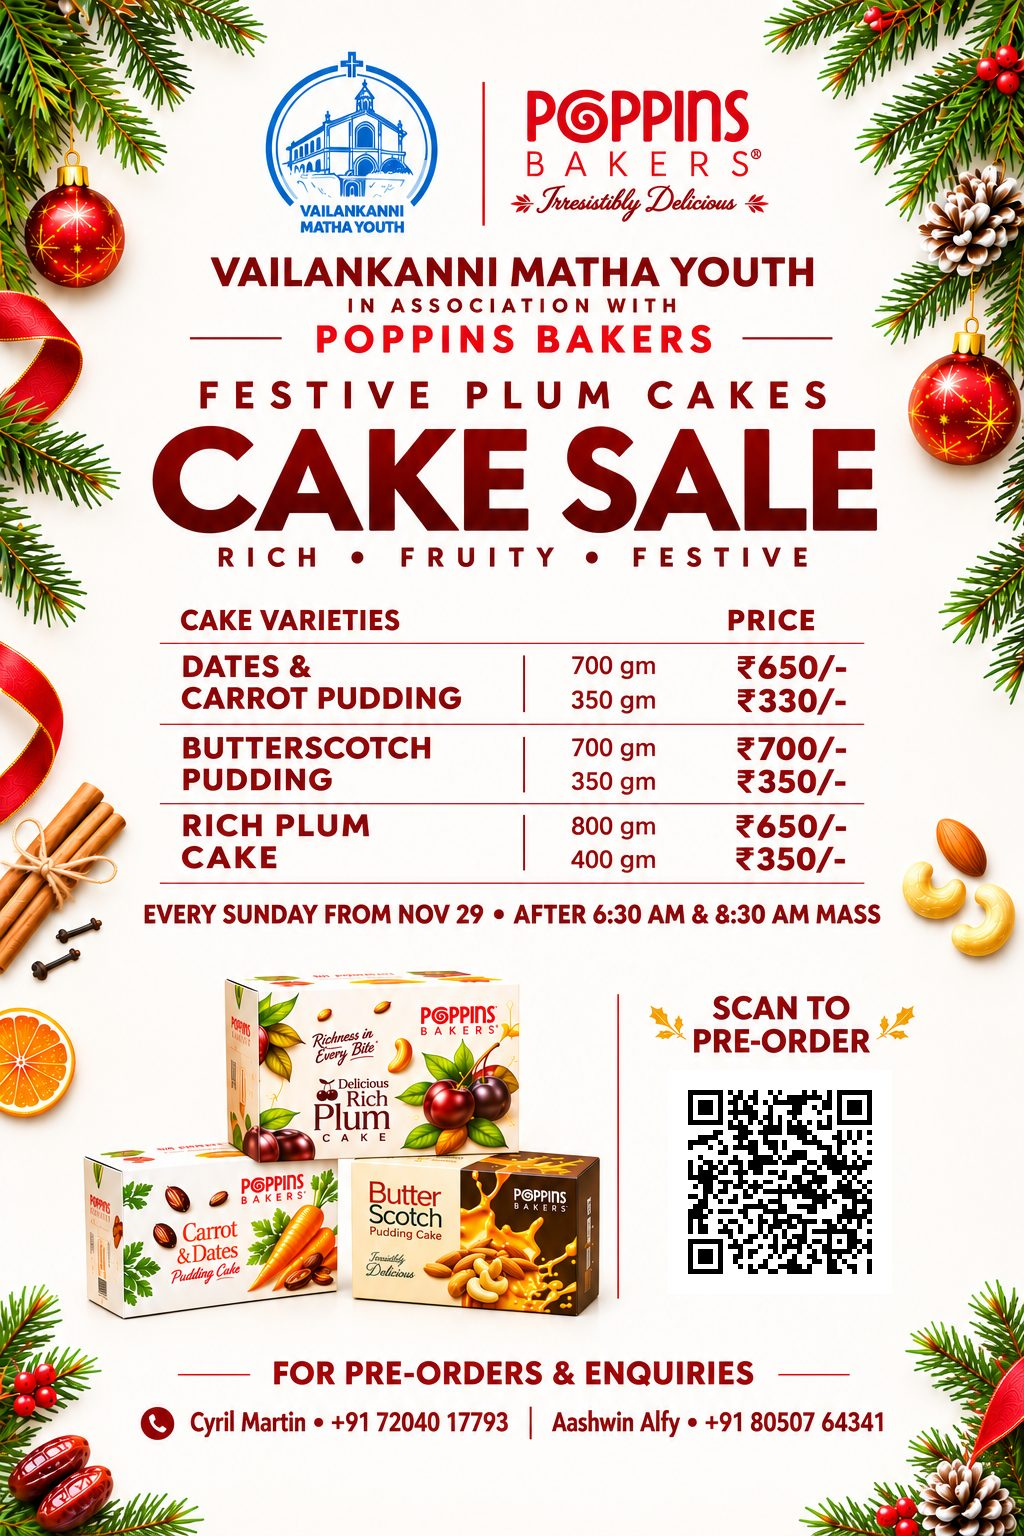
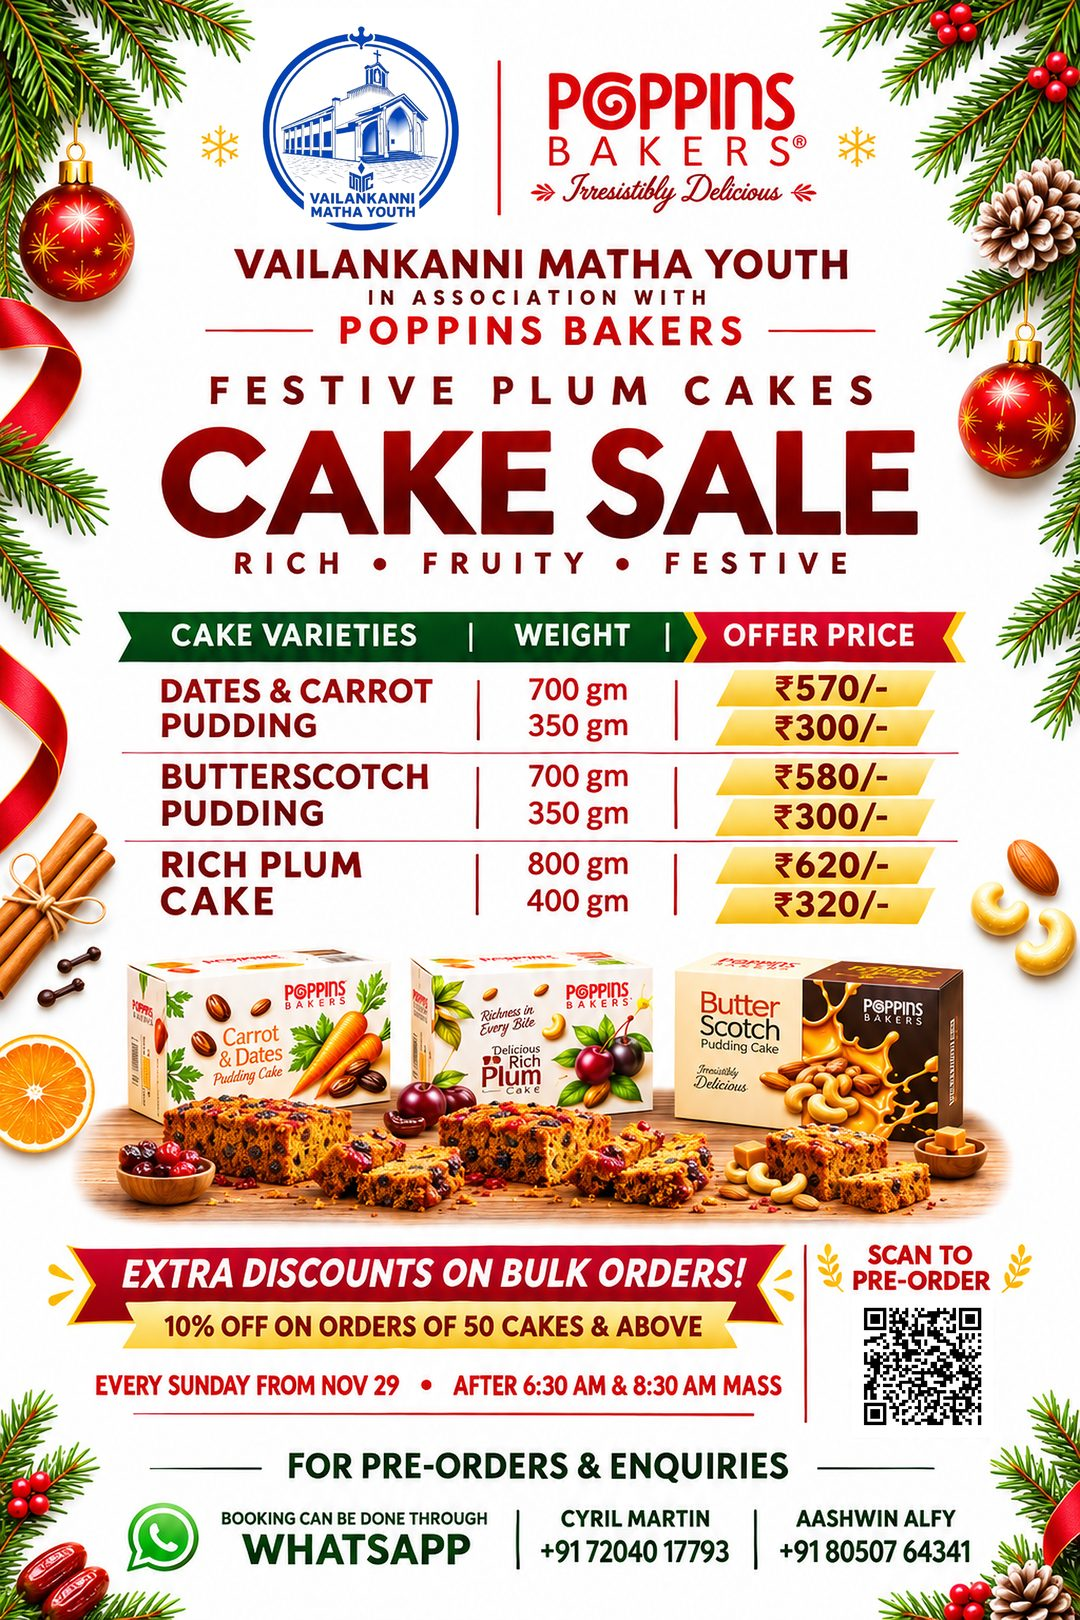
New offer prices (570/300, 580/300, 620/320) and new poster; Code.gs 2026-11-27.1

diff --git a/public/staff.html b/public/staff.html
@@ -193,12 +193,12 @@
   const SEARCH_DEBOUNCE_MS = 280;
 
   const MENU = [
-    { name: 'Dates & Carrot Pudding (700g)', short: 'Dates 700g', price: 650 },
-    { name: 'Dates & Carrot Pudding (350g)', short: 'Dates 350g', price: 330 },
-    { name: 'Butterscotch Pudding (700g)', short: 'Butterscotch 700g', price: 700 },
-    { name: 'Butterscotch Pudding (350g)', short: 'Butterscotch 350g', price: 350 },
-    { name: 'Rich Plum Cake (800g)', short: 'Plum 800g', price: 650 },
-    { name: 'Rich Plum Cake (400g)', short: 'Plum 400g', price: 350 }
+    { name: 'Dates & Carrot Pudding (700g)', short: 'Dates 700g', price: 570 },
+    { name: 'Dates & Carrot Pudding (350g)', short: 'Dates 350g', price: 300 },
+    { name: 'Butterscotch Pudding (700g)', short: 'Butterscotch 700g', price: 580 },
+    { name: 'Butterscotch Pudding (350g)', short: 'Butterscotch 350g', price: 300 },
+    { name: 'Rich Plum Cake (800g)', short: 'Plum 800g', price: 620 },
+    { name: 'Rich Plum Cake (400g)', short: 'Plum 400g', price: 320 }
   ];
   const DEFAULT_DATES = [
     { id: '2026-11-29', label: 'Sun, 29 Nov', closesAt: '2026-11-29T08:30:00+05:30' },
@@ -208,16 +208,16 @@
   ];
 
   const MOCK_ORDERS = [
-    { row: 2, orderId: 'PB-261123-HVAB', name: "Anita D'Souza", phone: '9876543210', pickupDate: '2026-11-29', items: '1 × Dates & Carrot Pudding (700g)\n2 × Rich Plum Cake (400g)', total: 1350, status: 'Pending' },
-    { row: 3, orderId: 'PB-261123-KLMN', name: 'Cyril Martin', phone: '7204017793', pickupDate: '2026-11-29', items: '1 × Butterscotch Pudding (700g)', total: 700, status: 'Paid' },
-    { row: 4, orderId: 'PB-261123-QRST', name: 'Maria Fernandes', phone: '9988776655', pickupDate: '2026-11-29', items: '2 × Dates & Carrot Pudding (350g)\n1 × Rich Plum Cake (800g)', total: 1310, status: 'Picked up' },
-    { row: 5, orderId: 'PB-261122-ABCD', name: 'Joseph Pinto', phone: '9123456780', pickupDate: '2026-11-29', items: '1 × Rich Plum Cake (400g)', total: 350, status: 'Pending' },
-    { row: 6, orderId: 'PB-261122-WXYZ', name: 'Sunita Rao', phone: '9000011122', pickupDate: '2026-11-29', items: '1 × Butterscotch Pudding (350g)', total: 350, status: 'Cancelled' },
-    { row: 7, orderId: 'PB-261121-EFGH', name: 'Rohan Naik', phone: '9811122233', pickupDate: '2026-12-06', items: '1 × Dates & Carrot Pudding (700g)', total: 650, status: 'Pending' }
+    { row: 2, orderId: 'PB-261123-HVAB', name: "Anita D'Souza", phone: '9876543210', pickupDate: '2026-11-29', items: '1 × Dates & Carrot Pudding (700g)\n2 × Rich Plum Cake (400g)', total: 1210, status: 'Pending' },
+    { row: 3, orderId: 'PB-261123-KLMN', name: 'Cyril Martin', phone: '7204017793', pickupDate: '2026-11-29', items: '1 × Butterscotch Pudding (700g)', total: 580, status: 'Paid' },
+    { row: 4, orderId: 'PB-261123-QRST', name: 'Maria Fernandes', phone: '9988776655', pickupDate: '2026-11-29', items: '2 × Dates & Carrot Pudding (350g)\n1 × Rich Plum Cake (800g)', total: 1220, status: 'Picked up' },
+    { row: 5, orderId: 'PB-261122-ABCD', name: 'Joseph Pinto', phone: '9123456780', pickupDate: '2026-11-29', items: '1 × Rich Plum Cake (400g)', total: 320, status: 'Pending' },
+    { row: 6, orderId: 'PB-261122-WXYZ', name: 'Sunita Rao', phone: '9000011122', pickupDate: '2026-11-29', items: '1 × Butterscotch Pudding (350g)', total: 300, status: 'Cancelled' },
+    { row: 7, orderId: 'PB-261121-EFGH', name: 'Rohan Naik', phone: '9811122233', pickupDate: '2026-12-06', items: '1 × Dates & Carrot Pudding (700g)', total: 570, status: 'Pending' }
   ];
   const MOCK_WALKINS = [
-    { walkinId: 'WI-demo-1', date: '2026-11-29', item: 'Dates & Carrot Pudding (700g)', qty: 1, price: 650, amount: 650, payment: 'Cash', notes: '', recordedAt: '2026-11-29T03:35:00.000Z', voided: false },
-    { walkinId: 'WI-demo-2', date: '2026-11-29', item: 'Rich Plum Cake (400g)', qty: 2, price: 350, amount: 700, payment: 'UPI', notes: '', recordedAt: '2026-11-29T04:05:00.000Z', voided: false }
+    { walkinId: 'WI-demo-1', date: '2026-11-29', item: 'Dates & Carrot Pudding (700g)', qty: 1, price: 570, amount: 570, payment: 'Cash', notes: '', recordedAt: '2026-11-29T03:35:00.000Z', voided: false },
+    { walkinId: 'WI-demo-2', date: '2026-11-29', item: 'Rich Plum Cake (400g)', qty: 2, price: 320, amount: 640, payment: 'UPI', notes: '', recordedAt: '2026-11-29T04:05:00.000Z', voided: false }
   ];
 
   const params = new URLSearchParams(location.search);

diff --git a/public/orders.html b/public/orders.html
@@ -212,7 +212,7 @@
             'Rich Plum Cake (800g)': { total: 0 },
             'Rich Plum Cake (400g)': { total: 1 }
           },
-          totals: { cakes: 1, amount: 350, orders: 1 }
+          totals: { cakes: 1, amount: 320, orders: 1 }
         }
       ],
       grand: {
@@ -250,10 +250,10 @@
           row.pending = Math.round((row.total - row.pickedUp) * 0.5);
         });
         var pendCakes = MENU_ITEMS.reduce(function (n, name) { return n + (date.items[name].pending || 0); }, 0);
-        date.pending = { orders: Math.min(date.totals.orders, Math.max(0, Math.ceil(pendCakes / 2))), cakes: pendCakes, amount: pendCakes * 350 };
+        date.pending = { orders: Math.min(date.totals.orders, Math.max(0, Math.ceil(pendCakes / 2))), cakes: pendCakes, amount: pendCakes * 320 };
         var picked = MENU_ITEMS.reduce(function (n, name) { return n + (date.items[name].pickedUp || 0); }, 0);
         var walk = MENU_ITEMS.reduce(function (n, name) { return n + (date.items[name].walkIn || 0); }, 0);
-        var walkAmt = walk * 350;
+        var walkAmt = walk * 320;
         date.sales = {
           ordered: { cakes: date.totals.cakes, amount: date.totals.amount, orders: date.totals.orders },
           cancelled: { orders: index === 1 ? 2 : (index === 0 ? 1 : 0) },
@@ -293,11 +293,11 @@
 
     // Example orders for ?preview=1 only. Obviously fake data.
     const MOCK_STAFF_ORDERS = [
-      { row: 2, orderId: 'PB-261123-DEMO1', name: 'Asha Rao', phone: '9876543210', pickupDate: '2026-11-29', items: '2 × Rich Plum Cake (400g)', total: 700, status: 'Pending' },
-      { row: 3, orderId: 'PB-261123-DEMO2', name: 'Joseph Dsouza', phone: '9845012345', pickupDate: '2026-11-29', items: '1 × Dates & Carrot Pudding (700g)\n1 × Butterscotch Pudding (350g)', total: 1000, status: 'Pending' },
-      { row: 4, orderId: 'PB-261123-DEMO3', name: 'Maria Fernandes', phone: '9988776655', pickupDate: '2026-11-29', items: '1 × Rich Plum Cake (800g)', total: 650, status: 'Paid' },
-      { row: 5, orderId: 'PB-261123-DEMO4', name: 'Sunita Rao', phone: '9000011122', pickupDate: '2026-11-29', items: '1 × Butterscotch Pudding (350g)', total: 350, status: 'Cancelled' },
-      { row: 6, orderId: 'PB-261123-DEMO5', name: 'Peter Lobo', phone: '9123456780', pickupDate: '2026-12-06', items: '3 × Rich Plum Cake (400g)', total: 1050, status: 'Pending' }
+      { row: 2, orderId: 'PB-261123-DEMO1', name: 'Asha Rao', phone: '9876543210', pickupDate: '2026-11-29', items: '2 × Rich Plum Cake (400g)', total: 640, status: 'Pending' },
+      { row: 3, orderId: 'PB-261123-DEMO2', name: 'Joseph Dsouza', phone: '9845012345', pickupDate: '2026-11-29', items: '1 × Dates & Carrot Pudding (700g)\n1 × Butterscotch Pudding (350g)', total: 870, status: 'Pending' },
+      { row: 4, orderId: 'PB-261123-DEMO3', name: 'Maria Fernandes', phone: '9988776655', pickupDate: '2026-11-29', items: '1 × Rich Plum Cake (800g)', total: 620, status: 'Paid' },
+      { row: 5, orderId: 'PB-261123-DEMO4', name: 'Sunita Rao', phone: '9000011122', pickupDate: '2026-11-29', items: '1 × Butterscotch Pudding (350g)', total: 300, status: 'Cancelled' },
+      { row: 6, orderId: 'PB-261123-DEMO5', name: 'Peter Lobo', phone: '9123456780', pickupDate: '2026-12-06', items: '3 × Rich Plum Cake (400g)', total: 960, status: 'Pending' }
     ];
 
     const els = {

diff --git a/public/index.html b/public/index.html
@@ -68,8 +68,8 @@
           class="block h-auto max-h-full w-auto max-w-full rounded-m3-lg object-contain shadow-m3-1"
           src="poster.jpg"
           alt="Festive Plum Cakes Cake Sale poster for Vailankanni Matha Youth in association with Poppins Bakers, listing Dates &amp; Carrot Pudding, Butterscotch Pudding, and Rich Plum Cake prices, sold every Sunday from Nov 29 after the 6:30 and 8:30 AM Mass at Vailankanni Matha Church, Muthanallur."
-          width="1024"
-          height="1536"
+          width="1080"
+          height="1620"
           fetchpriority="high">
       </picture>
     </div>
@@ -267,7 +267,7 @@
         id: 'dates-carrot-pudding-700',
         name: 'Dates & Carrot Pudding',
         weight: '700g',
-        price: 650,
+        price: 570,
         tag: '',
         description: 'Moist festive pudding cake with dates and carrot in every slice.'
       },
@@ -275,7 +275,7 @@
         id: 'dates-carrot-pudding-350',
         name: 'Dates & Carrot Pudding',
         weight: '350g',
-        price: 330,
+        price: 300,
         tag: '',
         description: 'The same dates-and-carrot pudding, in a smaller loaf.'
       },
@@ -283,7 +283,7 @@
         id: 'butterscotch-pudding-700',
         name: 'Butterscotch Pudding',
         weight: '700g',
-        price: 700,
+        price: 580,
         tag: '',
         description: 'Buttery butterscotch pudding cake with a rich caramel finish.'
       },
@@ -291,7 +291,7 @@
         id: 'butterscotch-pudding-350',
         name: 'Butterscotch Pudding',
         weight: '350g',
-        price: 350,
+        price: 300,
         tag: '',
         description: 'A smaller butterscotch pudding, ideal as a gift loaf.'
       },
@@ -299,7 +299,7 @@
         id: 'rich-plum-cake-800',
         name: 'Rich Plum Cake',
         weight: '800g',
-        price: 650,
+        price: 620,
         tag: '',
         description: 'Family-size soaked-fruit plum cake — rich, fruity, and festive.'
       },
@@ -307,7 +307,7 @@
         id: 'rich-plum-cake-400',
         name: 'Rich Plum Cake',
         weight: '400g',
-        price: 350,
+        price: 320,
         tag: 'Bestseller',
         description: 'Classic rich plum cake packed with soaked fruits and warm spice.'
       }

diff --git a/public/site-config.js b/public/site-config.js
@@ -20,8 +20,8 @@
     poster: {
       webp: 'poster.webp',
       jpg: 'poster.jpg',
-      width: 1024,
-      height: 1536
+      width: 1080,
+      height: 1620
     },
     contacts: [
       { id: 'cyril', name: 'Cyril Martin', number: '917204017793', display: '+91 72040 17793' },

diff --git a/HANDOFF-CLAUDE-CODE.md b/HANDOFF-CLAUDE-CODE.md
@@ -6,9 +6,11 @@ You are picking up an existing, working project. Read this fully, then `README.m
 - A Christmas cake pre-order fundraiser for Vailankanni Matha Youth with Poppins Bakers, at Vailankanni Matha Church, Muthanallur (Harohalli, Sarjapura Road, Bengaluru 560099).
 - **Pickup only**, every Sunday from 29 Nov 2026, after the 6:30 AM or 8:30 AM Mass. There is no delivery.
 - **Menu (₹):**
-  - Dates & Carrot Pudding: 700g 650, 350g 330
-  - Butterscotch Pudding: 700g 700, 350g 350
-  - Rich Plum Cake: 800g 650, 400g 350
+  - Dates & Carrot Pudding: 700g 570, 350g 300
+  - Butterscotch Pudding: 700g 580, 350g 300
+  - Rich Plum Cake: 800g 620, 400g 320
+  - **Price update (2026-11-27, Code.gs `2026-11-27.1`, new "Offer Price" poster).** Prices live in three places: `MENU_ITEM_PRICES` in `Code.gs`, `MENU_ITEMS` in `public/index.html` and `MENU` in `public/staff.html`. New prices apply to NEW orders and walk-ins only: existing Orders rows keep the amount they were saved with. The hidden `_ItemPrices` tab is rewritten from `MENU_ITEM_PRICES` every time `setupSheets` (or a walk-in) runs, and the Walk-in Sales `Price each`/`Amount` columns are formulas over it, so any walk-in rows recorded BEFORE the change will re-price to the new numbers. The poster's "10% off on orders of 50 cakes & above" bulk discount is NOT implemented in the order total.
+
 - **Contacts.** Orders alternate between two WhatsApp numbers:
   - Cyril Martin, 917204017793 (+91 72040 17793)
   - Aashwin Alfy, 918050764341 (+91 80507 64341)
